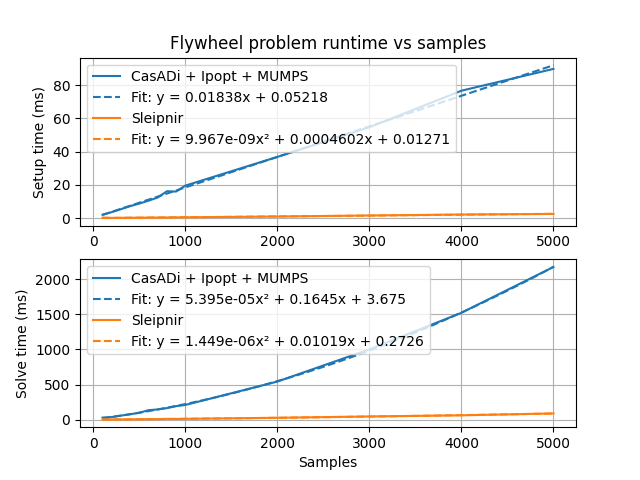
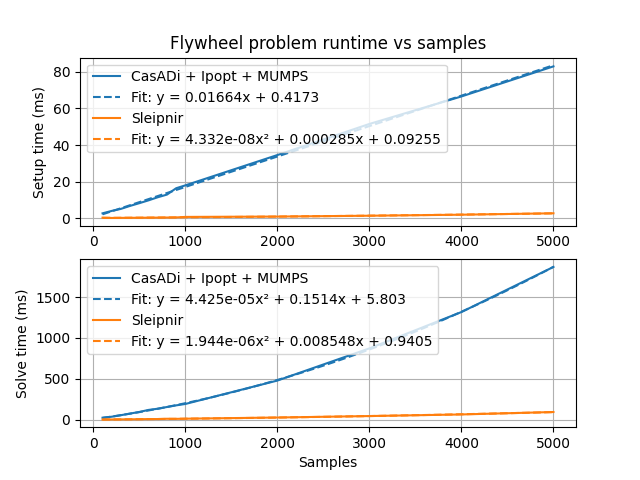
Rerun benchmarks with GCC 15 and CasADi 3.7.0 (#867)

diff --git a/benchmarks/scalability/util.hpp b/benchmarks/scalability/util.hpp
@@ -26,40 +26,6 @@ constexpr double to_ms(const std::chrono::duration<Rep, Period>& duration) {
 }
 
 /**
- * Runs the setup and solve for an optimization problem instance, records the
- * setup time and solve time for each, then writes them to a CSV file.
- *
- * @tparam Problem The optimization problem's type (casadi::Opti or
- *   slp::Problem).
- * @param results The CSV file to which to write the results.
- * @param setup A function that returns an optimization problem instance.
- * @param solve A function that takes an optimization problem instance and
- *   solves it.
- */
-template <typename Problem>
-void run_benchmark(std::ofstream& results, slp::function_ref<Problem()> setup,
-                   slp::function_ref<void(Problem& problem)> solve) {
-  // Record setup time
-  auto setup_start_time = std::chrono::steady_clock::now();
-  auto problem = setup();
-  auto setup_end_time = std::chrono::steady_clock::now();
-
-  results << to_ms(setup_end_time - setup_start_time);
-  std::flush(results);
-
-  results << ",";
-  std::flush(results);
-
-  // Record solve time
-  auto solve_start_time = std::chrono::steady_clock::now();
-  solve(problem);
-  auto solve_end_time = std::chrono::steady_clock::now();
-
-  results << to_ms(solve_end_time - solve_start_time);
-  std::flush(results);
-}
-
-/**
  * Runs scalability benchmarks for CasADi and Sleipnir versions of an
  * optimization problem, records the setup time and solve time for each, then
  * writes them to scalability-results.csv.
@@ -94,34 +60,41 @@ int run_benchmarks_and_log(
   std::flush(results);
 
   for (int N : sample_sizes_to_test) {
-    results << N << ",";
-    std::flush(results);
-
     auto dt = T / N;
 
     std::print(stderr, "N = {}...", N);
-    run_benchmark<Problem>(
-        results, [=] { return setup(dt, N); },
-        [=](Problem& problem) {
-          if constexpr (std::same_as<Problem, casadi::Opti>) {
-            if (diagnostics) {
-              problem.solver("ipopt");
-            } else {
-              problem.solver("ipopt", {{"print_time", 0}},
-                             {{"print_level", 0}, {"sb", "yes"}});
-            }
-            problem.solve();
-          } else {
-            if (problem.solve({.diagnostics = diagnostics}) !=
-                slp::ExitStatus::SUCCESS) {
-              std::print(stderr, " FAIL ");
-            }
-          }
-        });
-    std::println(stderr, " done.");
 
-    results << "\n";
-    std::flush(results);
+    // Record setup time
+    auto setup_start_time = std::chrono::steady_clock::now();
+    auto problem = setup(dt, N);
+    auto setup_end_time = std::chrono::steady_clock::now();
+
+    // Record solve time
+    bool success = true;
+    auto solve_start_time = std::chrono::steady_clock::now();
+    if constexpr (std::same_as<Problem, casadi::Opti>) {
+      if (diagnostics) {
+        problem.solver("ipopt");
+      } else {
+        problem.solver("ipopt", {{"print_time", 0}},
+                       {{"print_level", 0}, {"sb", "yes"}});
+      }
+      problem.solve();
+    } else {
+      success = problem.solve({.diagnostics = diagnostics}) ==
+                slp::ExitStatus::SUCCESS;
+    }
+    auto solve_end_time = std::chrono::steady_clock::now();
+
+    if (success) {
+      results << N << ',' << to_ms(setup_end_time - setup_start_time) << ','
+              << to_ms(solve_end_time - solve_start_time) << '\n';
+      std::flush(results);
+    } else {
+      std::print(stderr, " FAIL");
+    }
+
+    std::println(stderr, " done.");
   }
 
   return 0;

diff --git a/README.md b/README.md
@@ -88,11 +88,11 @@ Generated by [tools/generate-scalability-results.sh](https://github.com/Sleipnir
 
 * CPU: AMD Ryzen 7 7840U
 * RAM: 64 GB, 5600 MHz DDR5
-* Compiler version: g++ (GCC) 14.2.1 20240805
+* Compiler version: g++ (GCC) 15.1.1 20250425
 
 The following thirdparty software was used in the benchmarks:
 
-* CasADi 3.6.7 (autodiff and NLP solver frontend)
+* CasADi 3.7.0 (autodiff and NLP solver frontend)
 * Ipopt 3.14.17 (NLP solver backend)
 * MUMPS 5.7.3 (linear solver)
 
